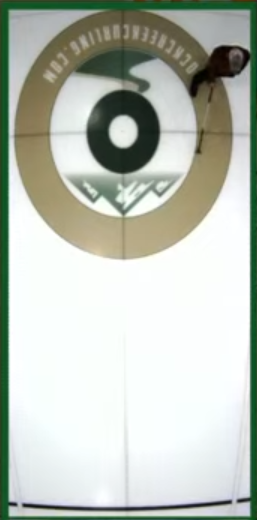
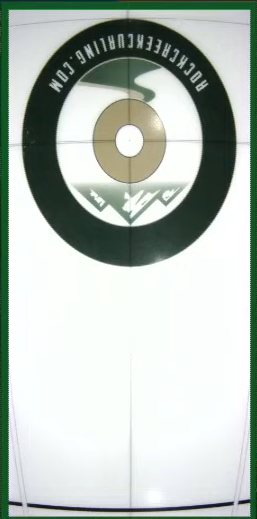
Implemented camera calibration based on sheet; Added converting image to sheet coordinates and vis versa

diff --git a/curling_shot_tracker.py b/curling_shot_tracker.py
@@ -5,6 +5,9 @@ from matplotlib.pyplot import gray
 import cv2 as cv
 import numpy as np  
 import sheet_coordinates as sheet
+import curling_sheet_plotting as sheet_plot
+
+import matplotlib.pyplot as plt
 
 @dataclass
 class ImageCoordinates:
@@ -18,28 +21,31 @@ class Camera:
     rotation_vectors : np.ndarray
     translation_vectors : np.ndarray
 
-def main():
+def create_camera():
     image_path = 'data/example_sheet.png'
     image = cv.imread(image_path)
 
     image_coords = {}
-    image_coords['middle_hog'] = (126,507)
-    image_coords['left_hog'] = (21,503)
-    image_coords['right_hog'] = (232,499)
+    image_coords['middle_hog'] = (130,507)
+    image_coords['left_hog'] = (27,502)
+    image_coords['right_hog'] = (233,500)
 
-    image_coords['pin'] = (122,131)
-    image_coords['left_tee_12'] = (15,135)
-    image_coords['left_tee_8'] = (49,134)
-    image_coords['left_tee_4'] = (87,132)
-    image_coords['right_tee_12'] = (131,133)
-    image_coords['right_tee_8'] = (197,132)
-    image_coords['right_tee_4'] = (159,131)
-    image_coords['top_center_12'] = (123,258)
-    image_coords['top_center_8'] = (123,217)
-    image_coords['top_center_4'] = (122,173)
-    image_coords['back_center_12'] = (122,8)
-    image_coords['back_center_8'] = (122,47)
-    image_coords['back_center_4'] = (122,90)
+    image_coords['pin'] = (129,140)
+    image_coords['left_tee_12'] = (22,144)
+    image_coords['left_tee_8'] = (56,143)
+    image_coords['left_tee_4'] = (93,142)
+    image_coords['right_tee_12'] = (235,143)
+    image_coords['right_tee_8'] = (202,141)
+    image_coords['right_tee_4'] = (165,141)
+    image_coords['top_center_12'] = (130,266)
+    image_coords['top_center_8'] = (130,226)
+    image_coords['top_center_4'] = (130,182)
+    image_coords['back_center_12'] = (127,18)
+    image_coords['back_center_8'] = (128,57)
+    image_coords['back_center_4'] = (129,98)
+
+    image_coords['left_back_corner'] = (5,26)
+    image_coords['right_back_corner'] = (252,25)
 
     image_shape = list(image.shape[0:2][::-1])
 
@@ -58,37 +64,57 @@ def main():
     ret, camera_mat, distortion, rotation_vecs, translation_vecs = cv.calibrateCamera(objpoints, imgpoints, image_shape, None, None)
     camera = Camera(camera_mat, distortion, rotation_vecs[0], translation_vecs[0])
 
-    pin = np.array([sheet.COORDINATES["side_a"]["pin"]])
-    pin = pin.astype('float32')
-
-    left = np.array([sheet.COORDINATES["side_a"]["left_tee_12"]])
-    left = left.astype('float32')
-
-    left_hog = np.array([sheet.COORDINATES["side_a"]["left_hog"]])
-    left_hog = left_hog.astype('float32')
-
-    print(project_points(camera, pin))
-    print(project_points(camera, left))
-    print(project_points(camera, left_hog))
-
-     # Project 3D points to image plane
     print("Error in projection : \n", ret)
-   # print("\nCamera matrix : \n", camera_mat)
-   # print("\nDistortion coefficients : \n", distortion)
-   # print("\nRotation vector : \n", rotation_vecs)
-   # print("\nTranslation vector : \n", translation_vecs)
 
-    newcameramtx, roi = cv.getOptimalNewCameraMatrix(camera.camera_matrix, camera.distortion_coefficients, image_shape, 1.0, image_shape)
-    dst = cv.undistort(image, camera.camera_matrix, camera.distortion_coefficients, None, newcameramtx)
-    
-    # crop the image
-  #  x, y, w, h = roi
-  #  dst = dst[y:y+h, x:x+w]
-    cv.imwrite('data/example_sheet_undistorted.png', dst)
+    return camera    
 
-def project_points(camera: Camera, points_3d: np.ndarray) -> np.ndarray:
+def sheet_to_image_coordinates(camera: Camera, points_3d: np.ndarray) -> np.ndarray:
     projected_points, _ = cv.projectPoints(points_3d, camera.rotation_vectors, camera.translation_vectors, camera.camera_matrix, camera.distortion_coefficients)
     return projected_points
+
+def image_to_sheet_coordinates(camera: Camera, image_points: np.ndarray) -> np.ndarray:
+    image_points = np.expand_dims(image_points, axis=1)
+    undistorted_points = cv.undistortPoints(image_points, camera.camera_matrix, camera.distortion_coefficients, P=camera.camera_matrix)
+
+    rmat, _ = cv.Rodrigues(camera.rotation_vectors)
+    extrinsic_mat = np.hstack((rmat, camera.translation_vectors))
+    projection_mat = camera.camera_matrix @ extrinsic_mat
+    homography_mat = projection_mat[:, [0,1,3]]
+    inv_homography_mat = np.linalg.inv(homography_mat)
+
+    sheet_points = []
+    for p in undistorted_points:
+        point3d_homogeneous = np.array([p[0][0], p[0][1], 1.0])
+        world_point_homogeneous = inv_homography_mat @ point3d_homogeneous
+        world_point_homogeneous /= world_point_homogeneous[2]
+        sheet_points.append((world_point_homogeneous[0], world_point_homogeneous[1], 0.0))
+
+    return np.array(sheet_points)
+
+def output_undistorted_image(camera: Camera, image: np.ndarray) -> np.ndarray:
+    image_shape = list(image.shape[0:2][::-1])
+    newcameramtx, roi = cv.getOptimalNewCameraMatrix(camera.camera_matrix, camera.distortion_coefficients, image_shape, 1.0, image_shape)
+    undistorted_image = cv.undistort(image, camera.camera_matrix, camera.distortion_coefficients, None, newcameramtx)
+    return undistorted_image
+
+def main():
+    image_path = 'data/example_sheet.png'
+    image = cv.imread(image_path)
+
+    camera = create_camera()
+
+    undistort_test = np.array([(142,290),(144,160),(129,492)])
+
+    undistort_test = undistort_test.astype('float32')
+    sheet_coords = image_to_sheet_coordinates(camera, undistort_test)
+
+    fig, ax = plt.subplots()
+    sheet_plot.plot_sheet_side_a(fig, ax)
+    sheet_plot.set_sheet_plot_limits(ax)
+    sheet_plot.plot_stones(ax, sheet_coords, color='green')
+    plt.show()
+
+    cv.imwrite('data/example_sheet_undistorted.png', output_undistorted_image(camera, image))
 
 if __name__ == "__main__":
     main()

diff --git a/sheet_coordinates.py b/sheet_coordinates.py
@@ -17,8 +17,8 @@ COORDINATES["side_a"]['top_center_4'] = (0.0, 57.0-2, 0.0)
 COORDINATES["side_a"]['back_center_12'] = (0.0, 57.0+6, 0.0)
 COORDINATES["side_a"]['back_center_8'] = (0.0, 57.0+4, 0.0)
 COORDINATES["side_a"]['back_center_4'] = (0.0, 57.0+2, 0.0)
-COORDINATES["side_a"]['left_back_corner'] = (0.0, 57.0+6, 0.0)
-COORDINATES["side_a"]['right_back_corner'] = (0.0, 57.0+6, 0.0)
+COORDINATES["side_a"]['left_back_corner'] = (-7.0833, 57.0+6, 0.0)
+COORDINATES["side_a"]['right_back_corner'] = (7.0833, 57.0+6, 0.0)
 
 COORDINATES["side_b"] = {}
 for k,v in COORDINATES["side_a"].items():
